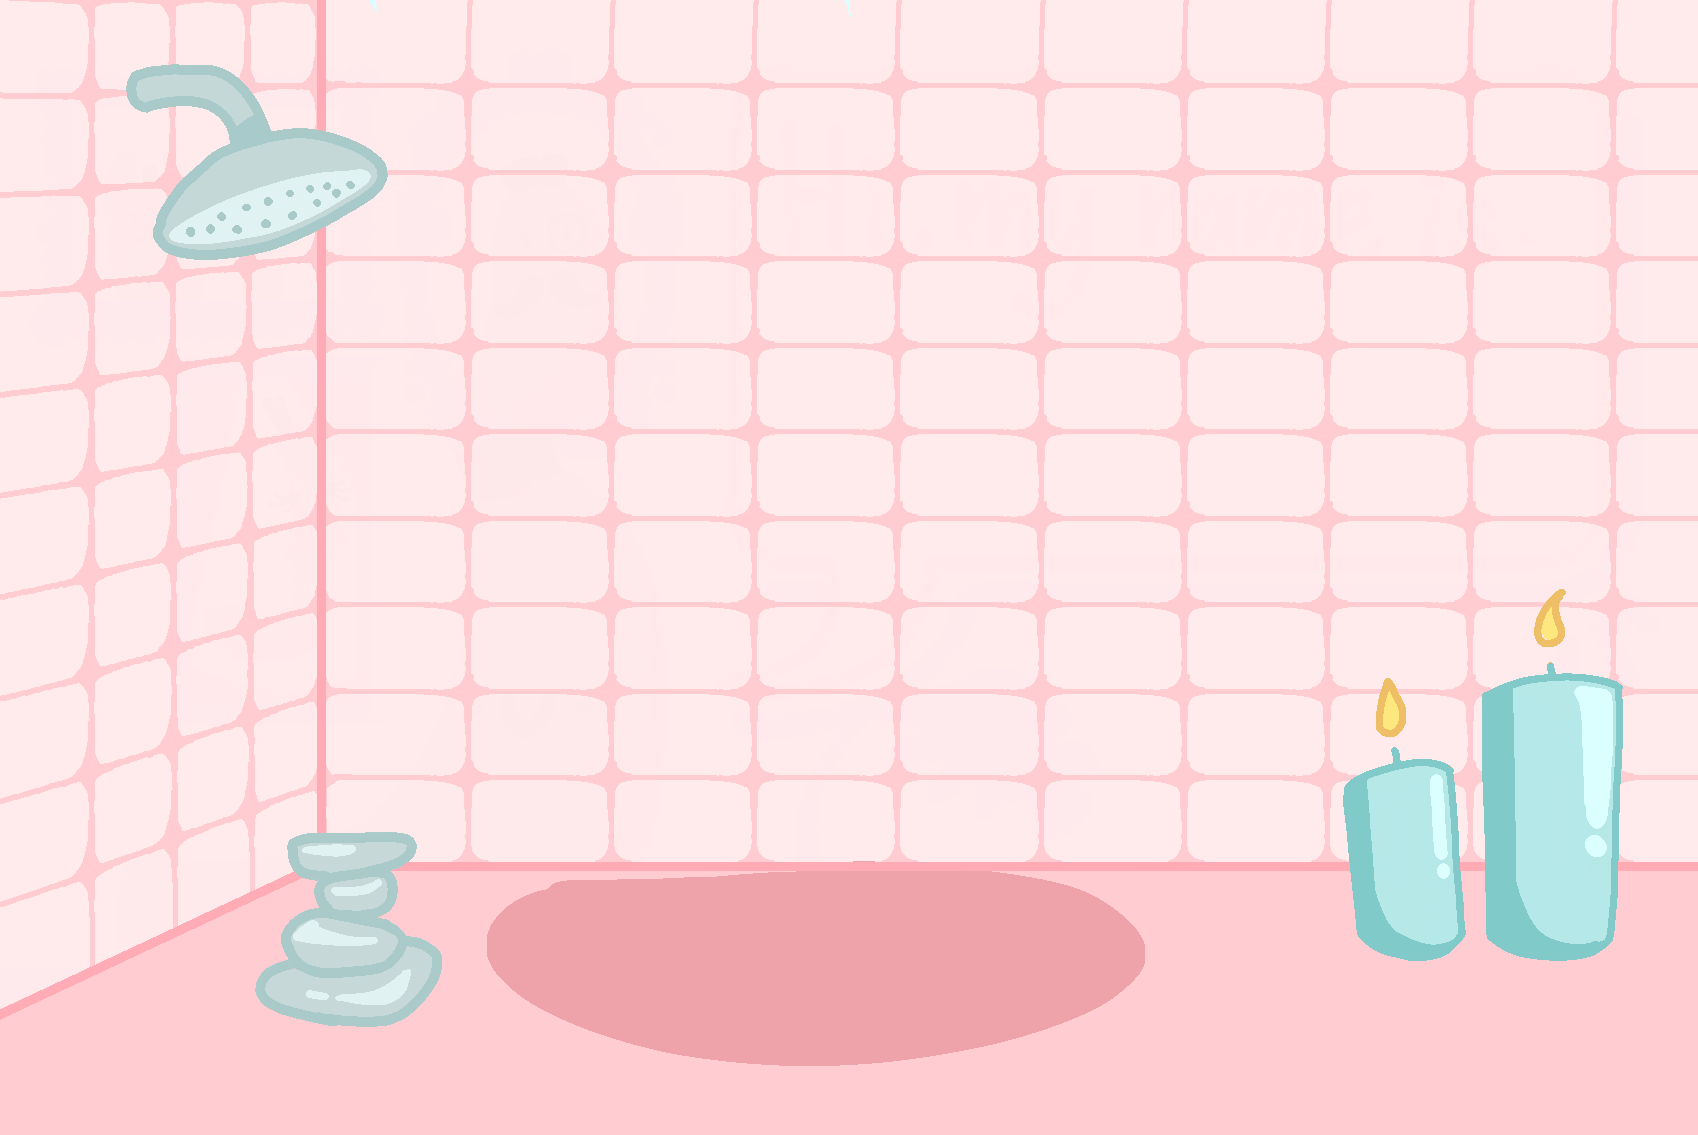
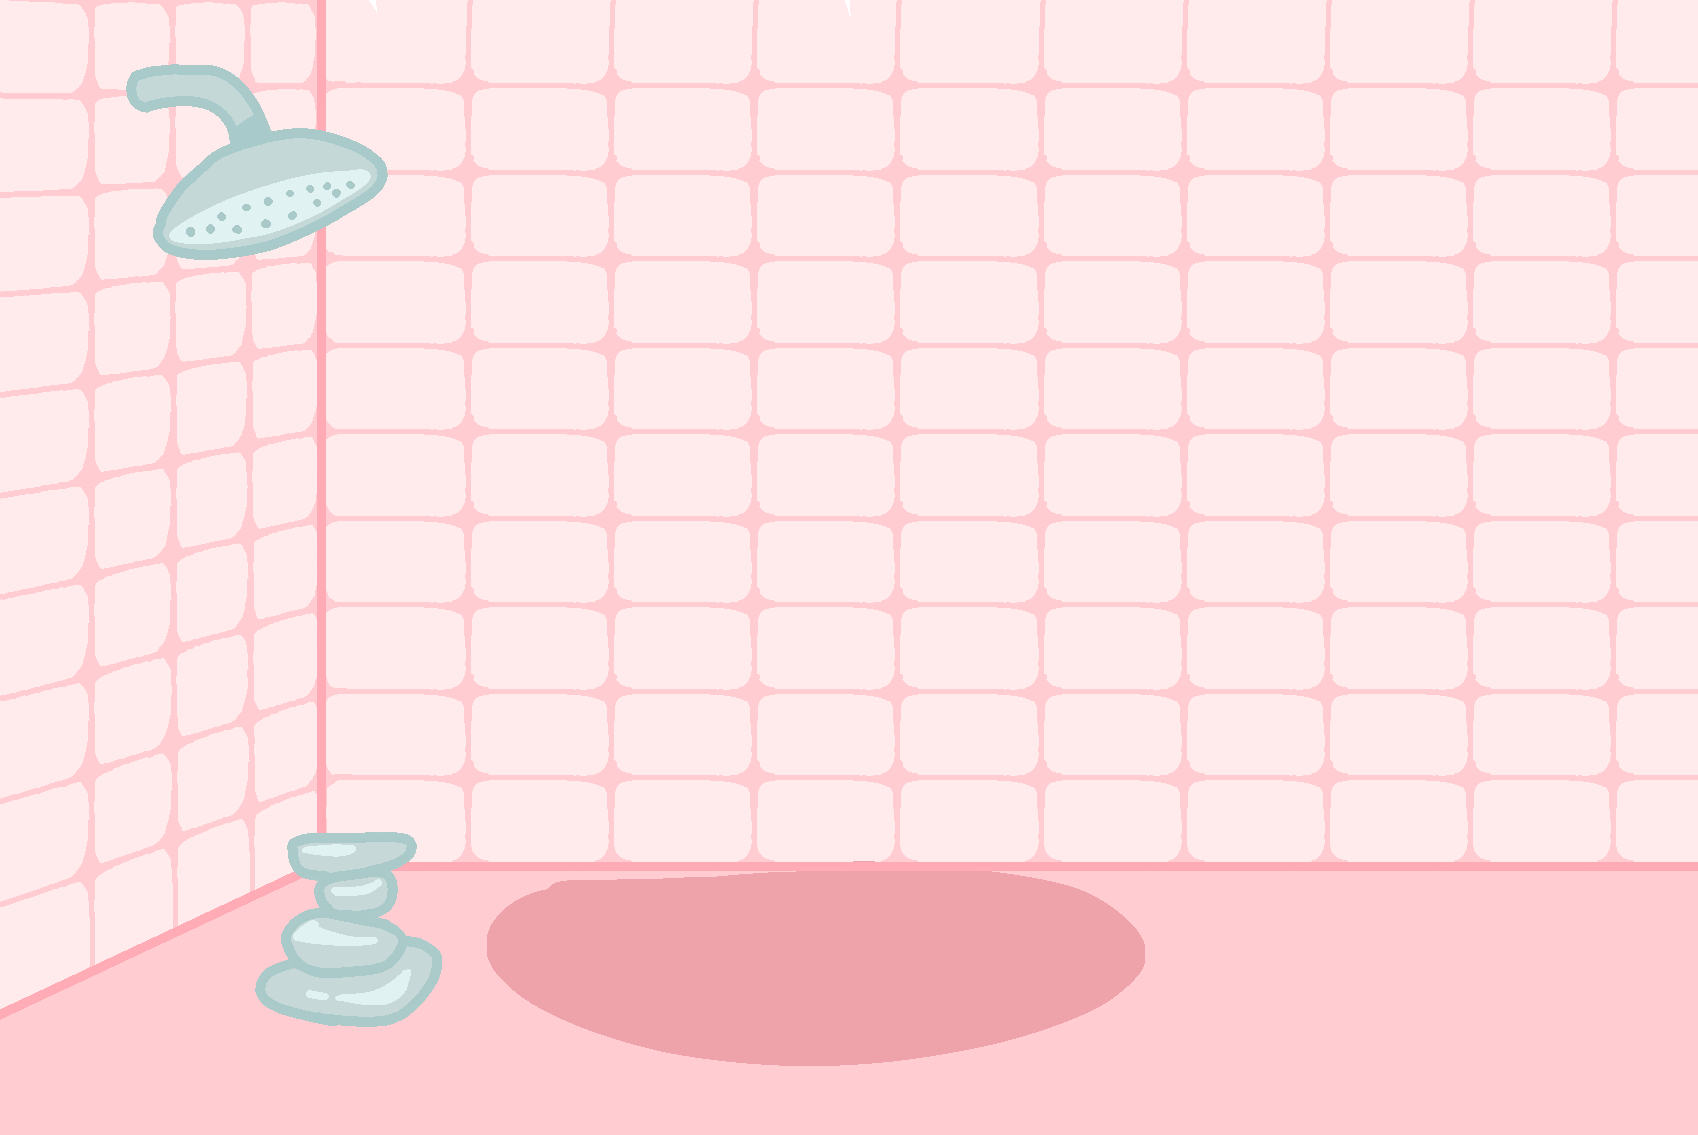
photo shoot bkg fixed

Changed region(s): [[0.7803, 0.5242, 0.9676, 0.8634]]

diff --git a/src/game/scenes/Wash.ts b/src/game/scenes/Wash.ts
@@ -19,6 +19,7 @@ export class Wash extends CookTemplate {
         this.load.image('washButton', 'assets/wash/WashButton.png');
         this.load.image('puddle', 'assets/wash/puddle.png');
         this.load.image('water', 'assets/wash/water.png');
+        this.load.image('candles', 'assets/wash/candles.png');
         this.load.image('washFace', 'assets/wash/washed face.png');
 
        
@@ -107,6 +108,16 @@ export class Wash extends CookTemplate {
                     }
                 });
             });
+
+
+
+         // Add draggable candles
+    const candles: Phaser.GameObjects.Image = this.add.image( 798.8186877290125, 511.42518720068756, 'candles')
+    .setAlpha(0.9)
+    .setDepth(1); // ensure it's on top of other elements if needed
+
+    
+
         }
 
     // Function to zoom in on the banana's forehead and then zoom out

diff --git a/src/game/scenes/PhotoShoot.ts b/src/game/scenes/PhotoShoot.ts
@@ -8,7 +8,7 @@ export class PhotoShoot extends SceneTemplate {
     }
 
     preload() {
-        this.load.image('backgroundbase', 'assets/Basic_BKG.jpeg'); //replace w custom background
+        this.load.image('backgroundbase', 'assets/PS_BKG.png'); //replace w custom background
 
         this.load.video('photoshootVideo', 'assets/banana photos.mp4'); // Load the video
 
